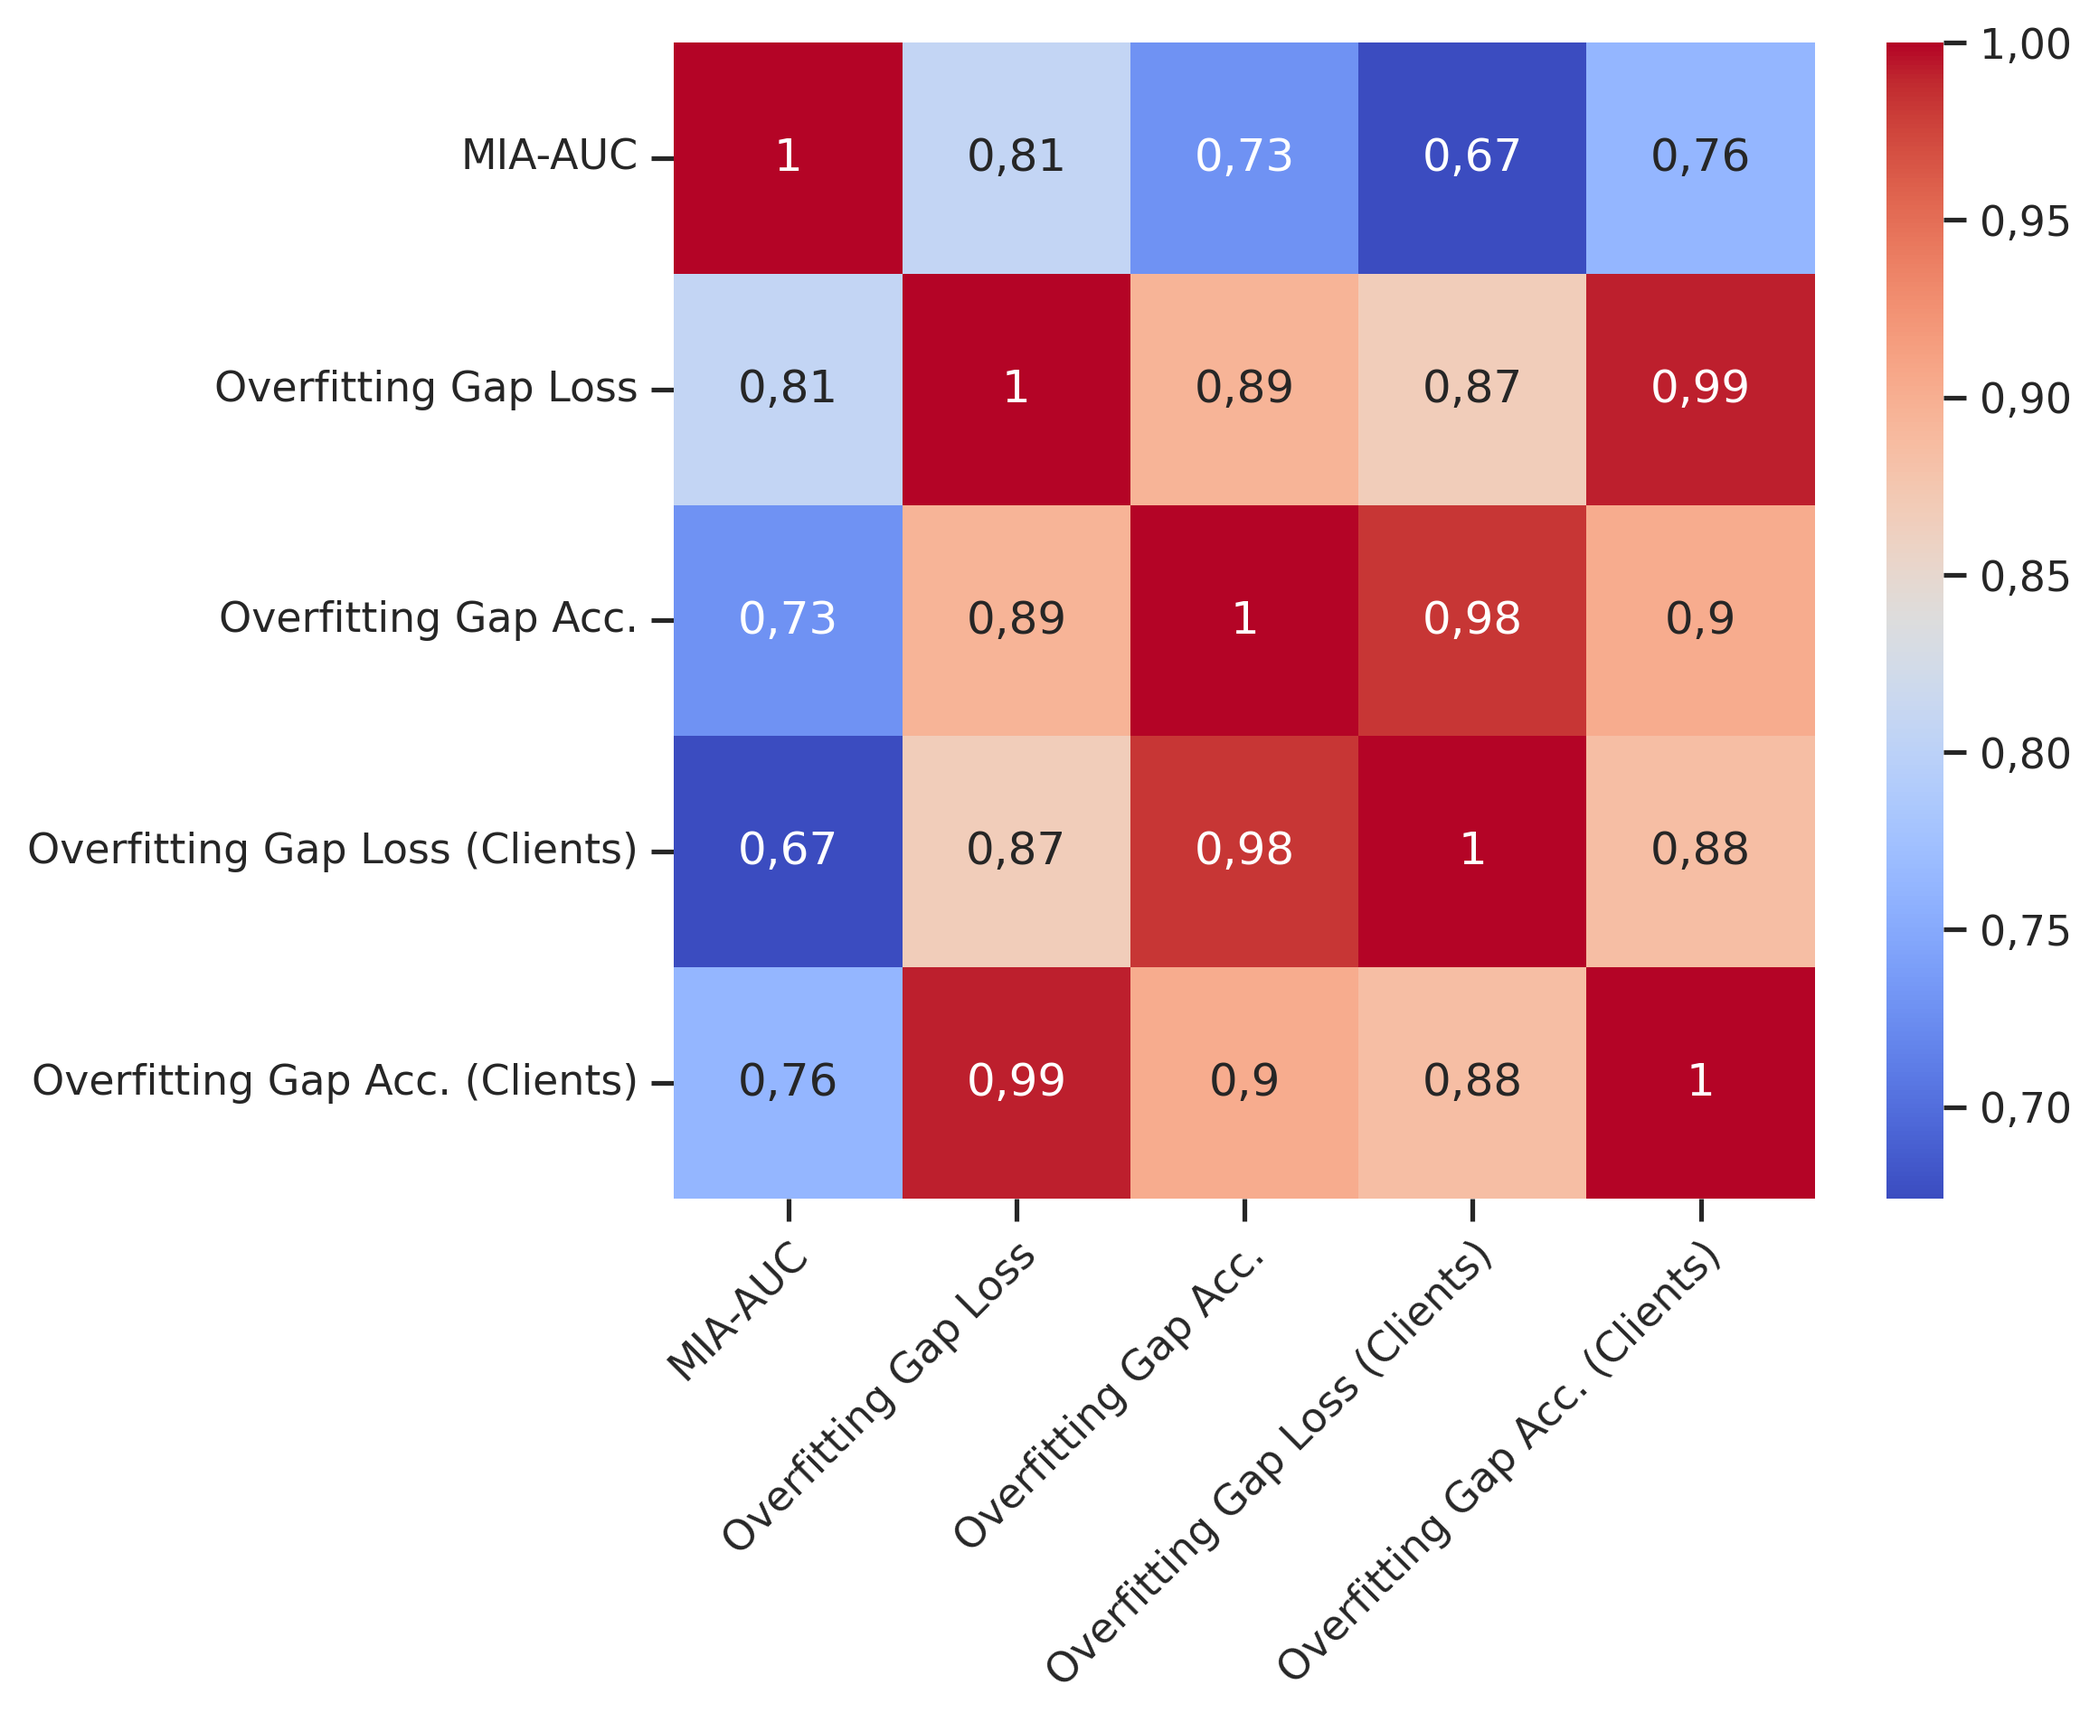
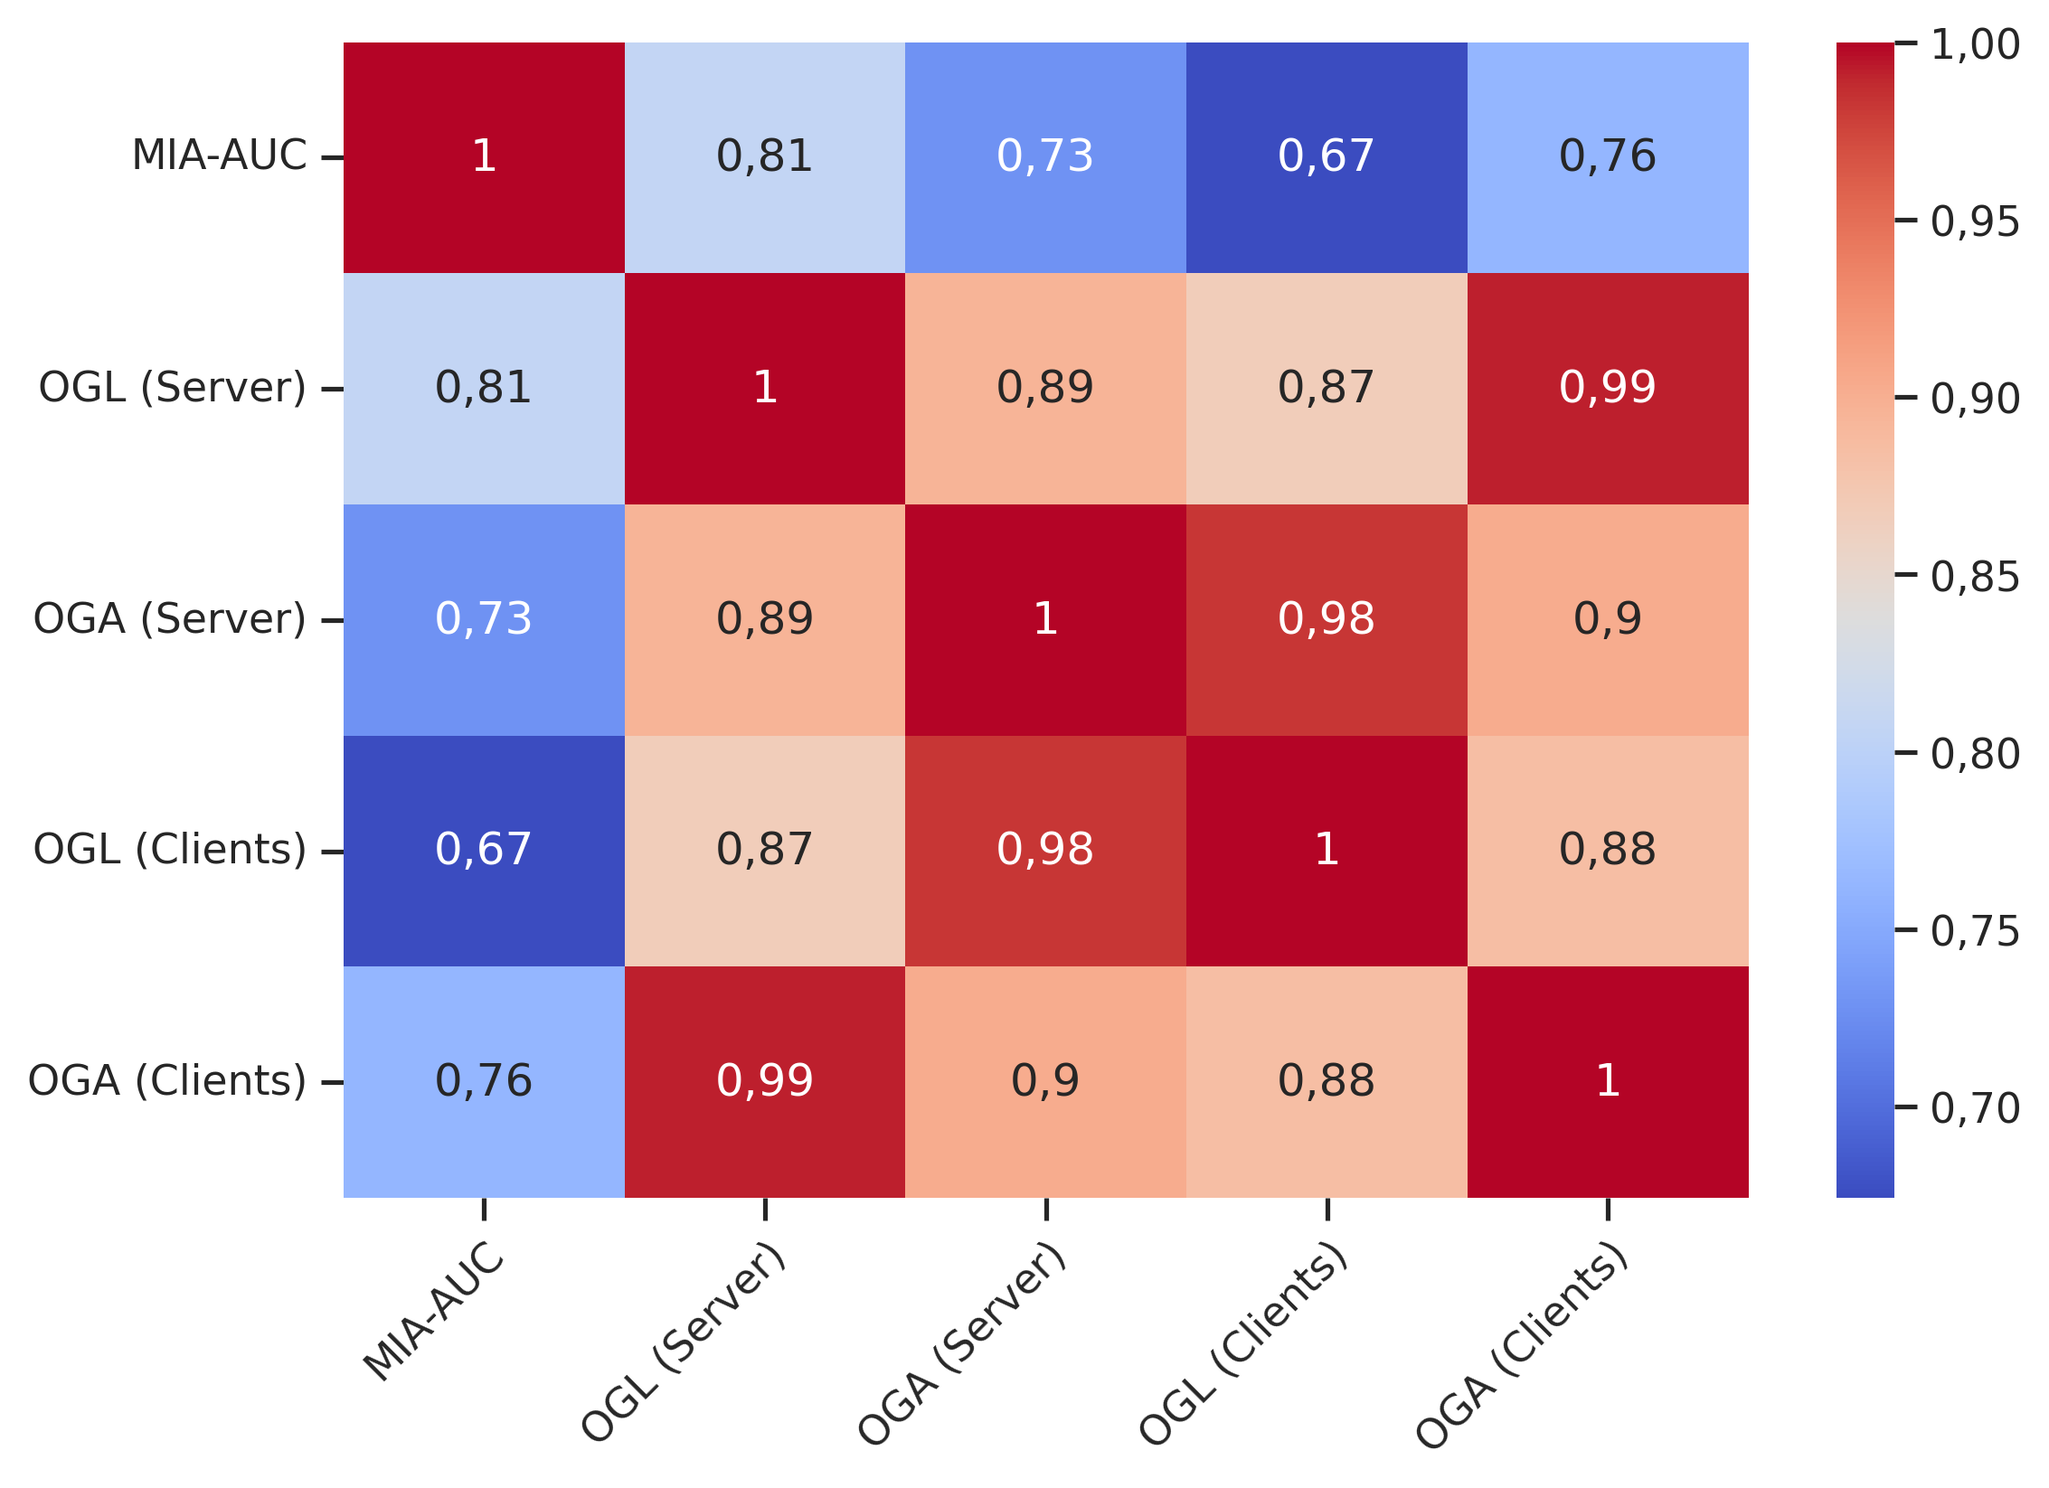
update seaborn_figures_corr.py: rename labels for clarity in heatmap generation

diff --git a/experiments_data_analysis/create_figures/main_experiments/seaborn_figures_corr.py b/experiments_data_analysis/create_figures/main_experiments/seaborn_figures_corr.py
@@ -23,10 +23,10 @@ def create_analysis_figures_corr(
 
     labels = [
         "MIA-AUC",
-        "Overfitting Gap Loss",
-        "Overfitting Gap Acc.",
-        "Overfitting Gap Loss (Clients)",
-        "Overfitting Gap Acc. (Clients)"
+        "OGL (Server)",
+        "OGA (Server)",
+        "OGL (Clients)",
+        "OGA (Clients)"
     ]
 
     create_heatmap(dataset=merged, col_names=cols_names, labels=labels, figures_dir=figures_dir)
